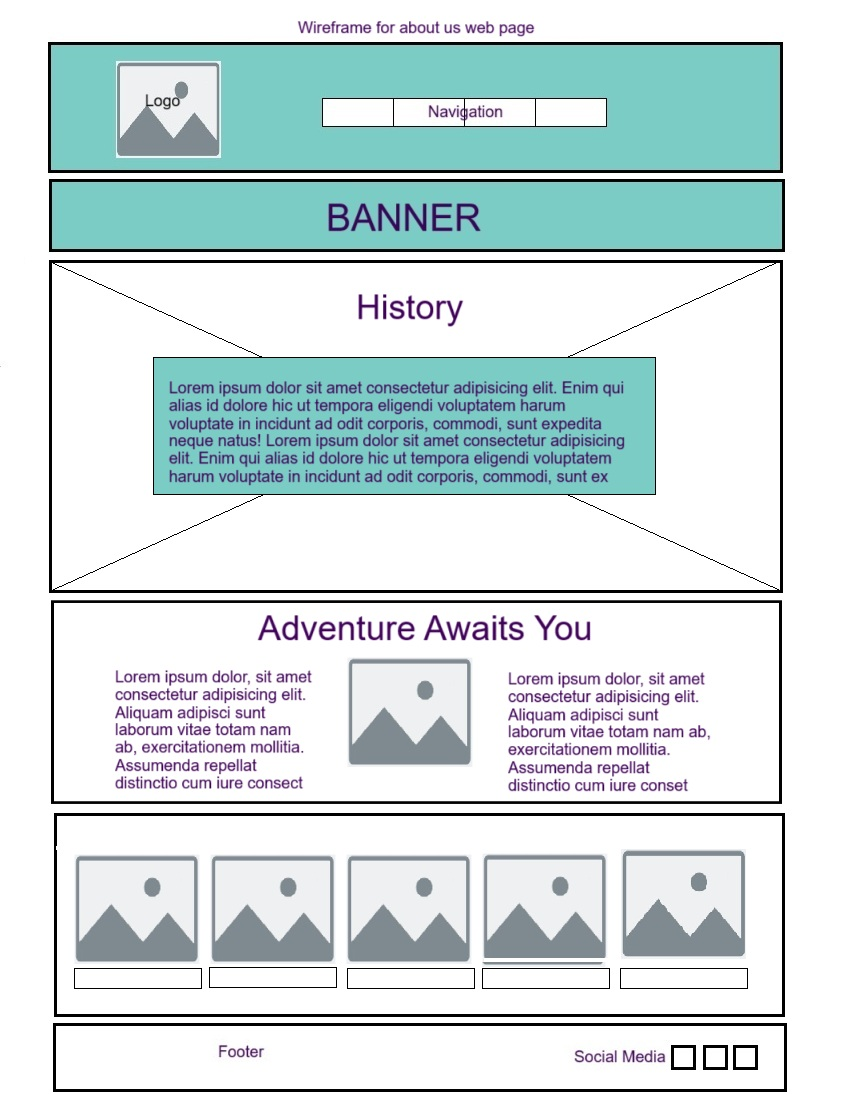
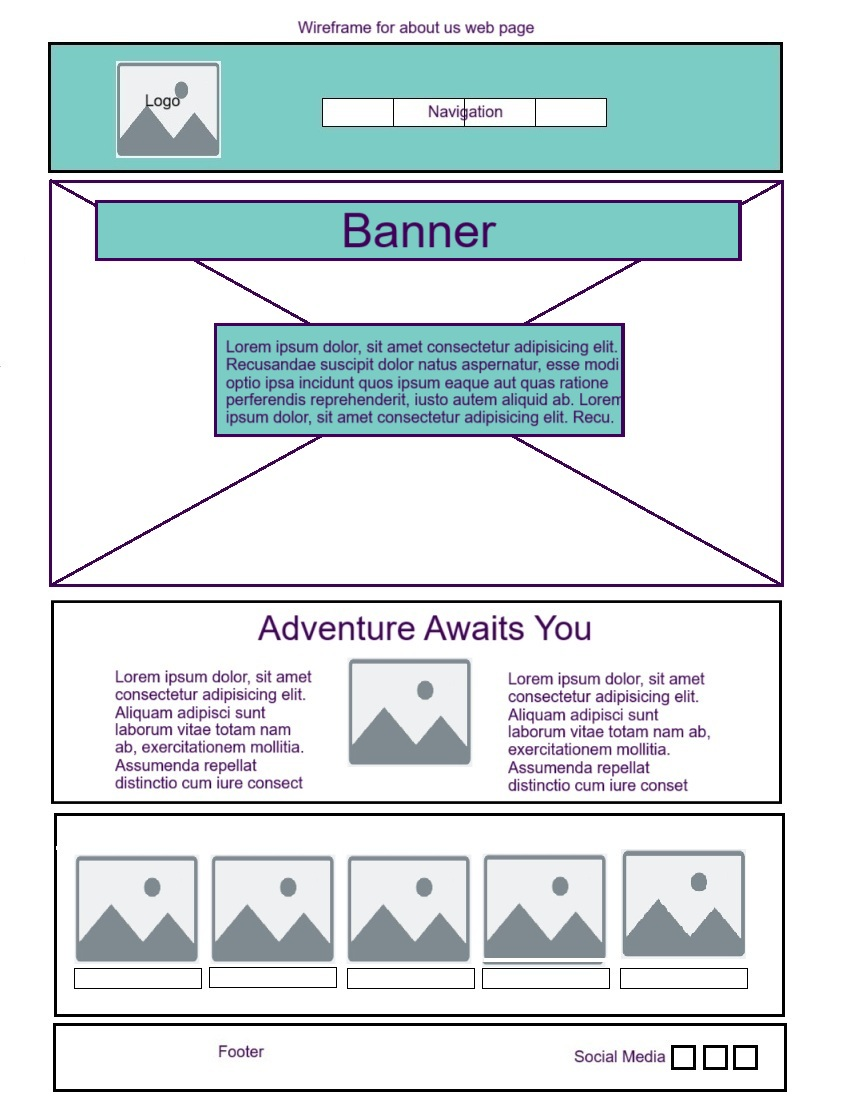
Added wireframes for each page

Changed region(s): [[0.0306, 0.1545, 0.9482, 0.5255], [0.0612, 0.4945, 0.9176, 0.5564]]

diff --git a/wwr/trips.html b/wwr/trips.html
@@ -225,8 +225,8 @@
     </main>
     <footer>
         <p>© 2025 🌈 Down the River 🌈 Paul A. Scherbel 🌈</p>
-        <a href="./images/wireframe_about.webp">
-            <img src="./images/wireframe_about.webp" alt="Wireframe of about us page of the Down the River website" width="40">
+        <a href="./images/wireframe_trips.webp">
+            <img src="./images/wireframe_trips.jpg" alt="Wireframe of about us page of the Down the River website" width="40">
         </a>
             <nav class="socialmedia">
             <a href="https://facebook.com">

diff --git a/wwr/index.html b/wwr/index.html
@@ -87,8 +87,8 @@
     </main>
     <footer>
         <p>© 2025 🌈 Down the River 🌈 Paul A. Scherbel 🌈</p>
-        <a href="./images/wireframe_about.webp">
-            <img src="./images/wireframe_about.webp" alt="Wireframe of about us page of the Down the River website" width="40">
+        <a href="./images/wireframe_home.webp">
+            <img src="./images/wireframe_home.jpg" alt="Wireframe of about us page of the Down the River website" width="40">
         </a>
         <nav class="socialmedia">
             <a href="https://facebook.com">

diff --git a/wwr/about.html b/wwr/about.html
@@ -75,7 +75,7 @@
     <footer>
         <p>© 2025 🌈 Down the River 🌈 Paul A. Scherbel 🌈</p>
         <a href="./images/wireframe_about.webp">
-            <img src="./images/wireframe_about.webp" alt="Wireframe of about us page of the Down the River website" width="40">
+            <img src="./images/wireframe_about.jpg" alt="Wireframe of about us page of the Down the River website" width="40">
         </a>
             <nav class="socialmedia">
             <a href="https://facebook.com">

diff --git a/wwr/styles/rafting.css b/wwr/styles/rafting.css
@@ -204,7 +204,7 @@ article {
 .trips p {
     font-family: var(--body-font);
     font-size: 1.2rem;
-    border: 3px solid red;
+    border: 3px var(--secondary-color);
 }
 
 iframe {
@@ -602,9 +602,9 @@ button:hover {
 }
 
 table {
-    margin: auto;
+    margin: 5px;
     border-collapse: collapse;
-    border: 2px solid var(--secondary-color);
+    border: 4px solid var(--secondary-color);
     font-family: var(--body-font);
     font-size: .8rem;
     letter-spacing: 1px;
